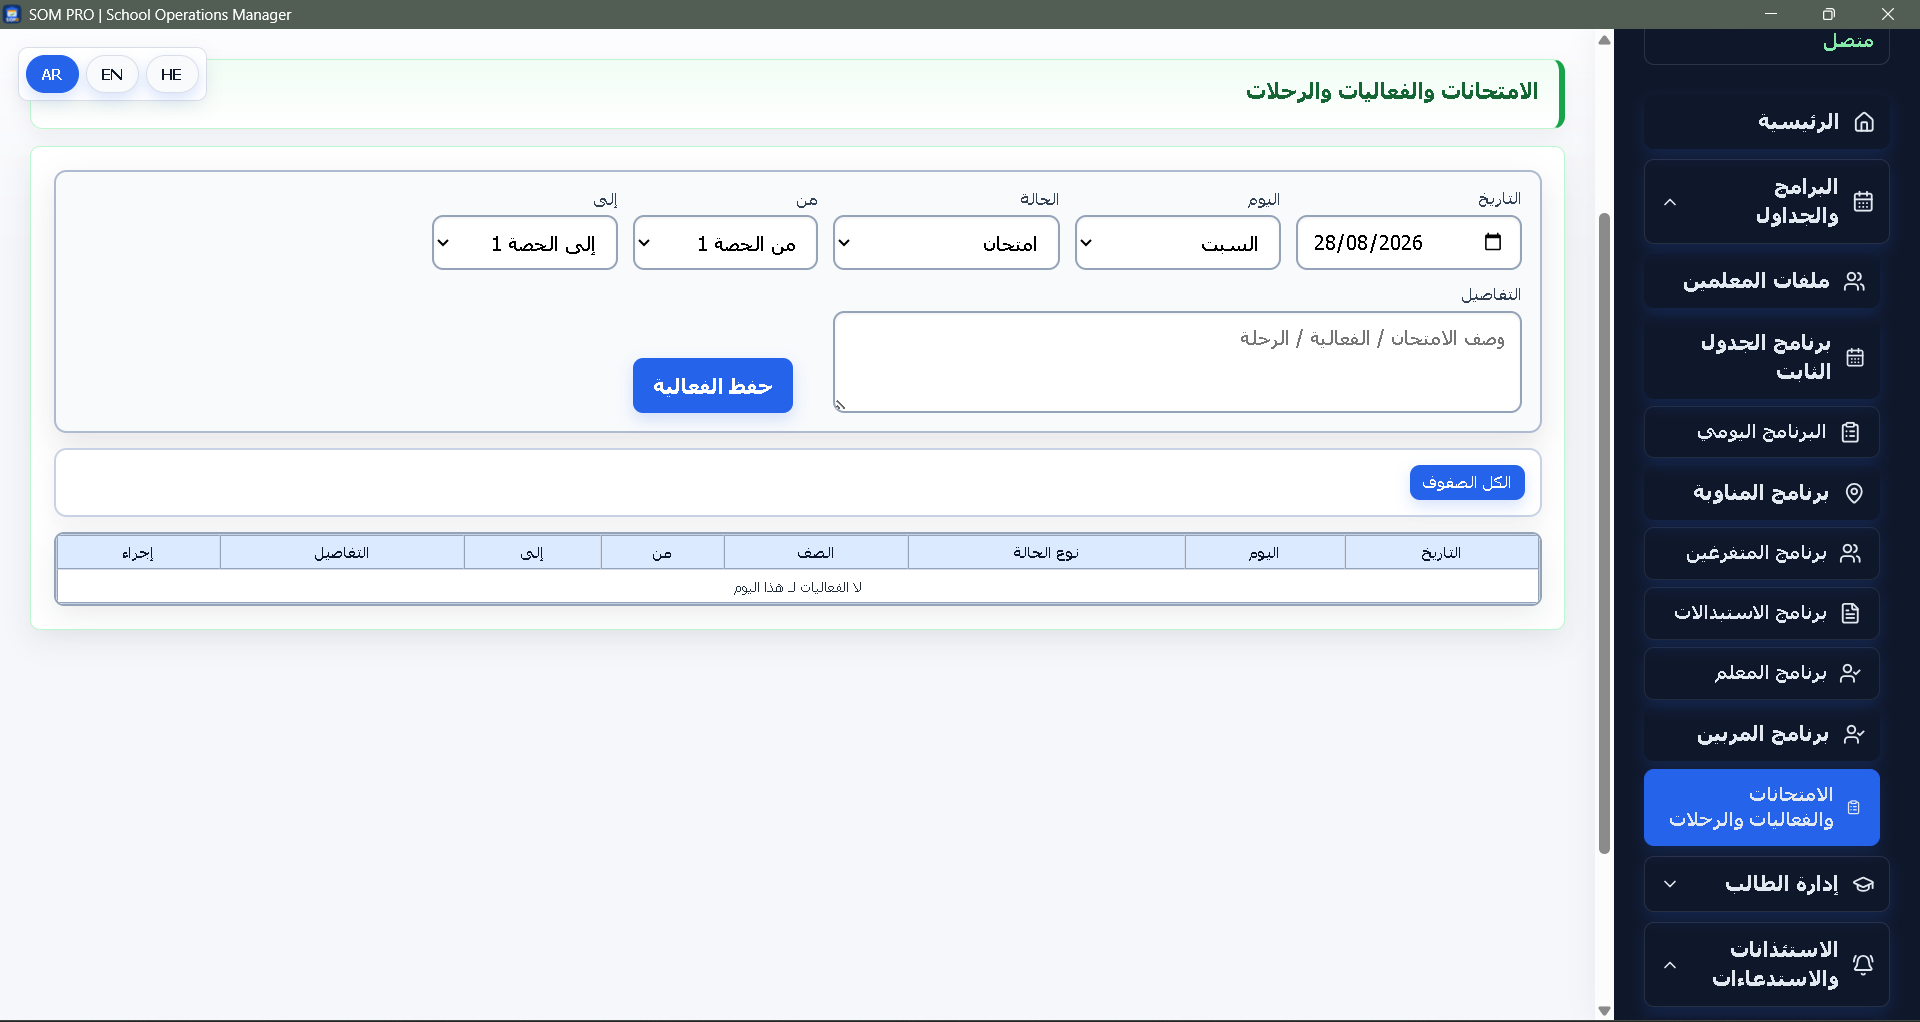
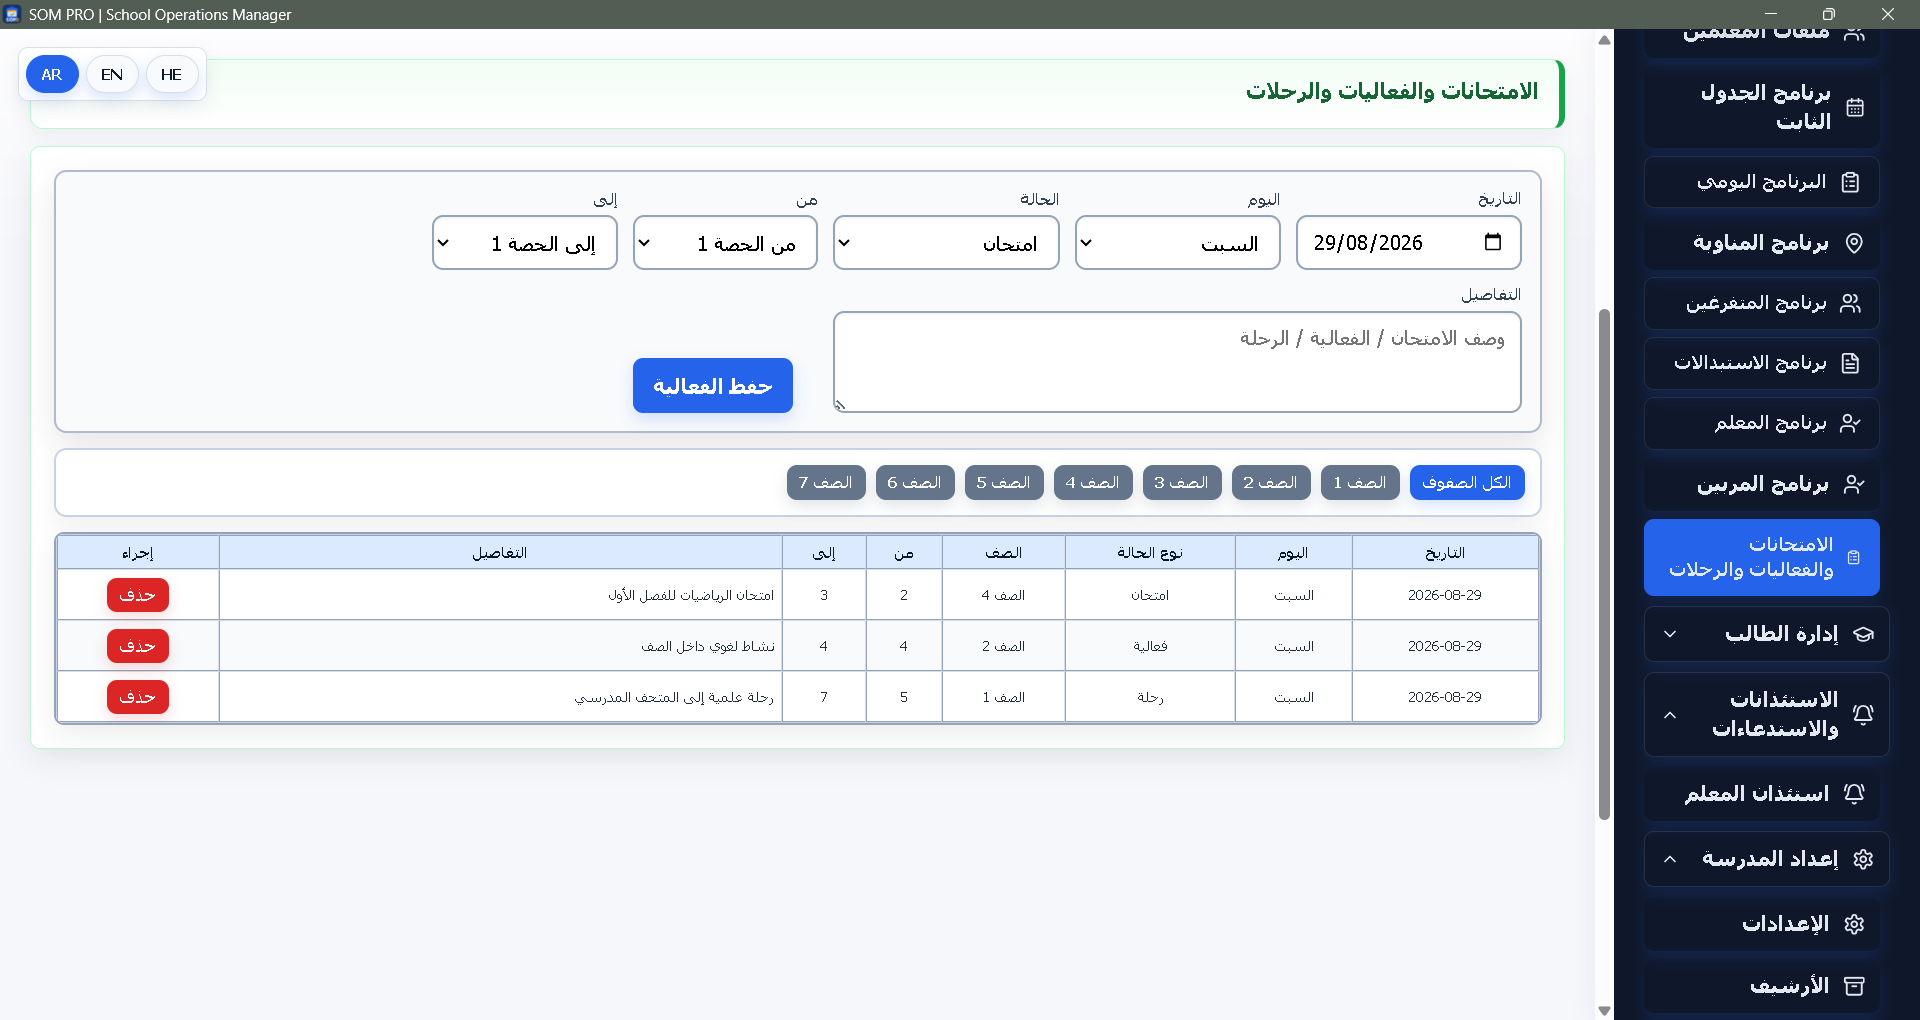
Refresh admin showcase images

diff --git a/web-page/index.html b/web-page/index.html
@@ -1398,11 +1398,10 @@
             <article class="showcase-group">
               <div class="showcase-group-head">
                 <div>
-                  <h3 data-i18n="showcaseAdminGroupTitle">صور الإدارة</h3>
-                  <p data-i18n="showcaseAdminGroupText">ثماني لقطات إدارية منفصلة، وكل صورة تفتح بالحجم الكامل عند الضغط عليها.</p>
+                  <h3 data-i18n="showcaseAdminGroupTitle">واجهة الادارة</h3>
                 </div>
               </div>
-              <div class="showcase-tiles admin-gallery" id="admin-gallery" aria-live="polite" data-showcase-label="صور الإدارة" data-showcase-source="assets/showcase/admin-gallery.json">
+              <div class="showcase-tiles admin-gallery" id="admin-gallery" aria-live="polite" data-showcase-label="واجهة الادارة" data-showcase-source="assets/showcase/admin-gallery.json">
                 <p class="showcase-loading">جارٍ تحميل صور الإدارة...</p>
               </div>
             </article>
@@ -1613,8 +1612,8 @@
           showcaseStudentGroupText: "أربع لقطات ببيانات تجريبية فقط توضّح ما يراه الطالب في يومه الدراسي.",
           showcaseTeacherGroupTitle: "واجهات المعلم",
           showcaseTeacherGroupText: "خمس لقطات ببيانات تجريبية فقط تمثل العمل اليومي للمعلم داخل المشروع.",
-          showcaseAdminGroupTitle: "صور الإدارة",
-          showcaseAdminGroupText: "ثماني لقطات إدارية منفصلة، وكل صورة تفتح بالحجم الكامل عند الضغط عليها.",
+          showcaseAdminGroupTitle: "واجهة الادارة",
+          showcaseAdminGroupText: "",
           pkg1Title: "نسخة سطح المكتب",
           pkg1Text: "مهيأة للأجهزة المكتبية واللابتوبات داخل المدرسة أو في بيئة داخلية مستقرة.",
           pkg2Title: "نسخة الويب",
@@ -1711,8 +1710,8 @@
           showcaseStudentGroupText: "Four demo-only screenshots that show what the student sees during the school day.",
           showcaseTeacherGroupTitle: "Teacher screens",
           showcaseTeacherGroupText: "Five demo-only screenshots that represent the teacher’s daily work inside the project.",
-          showcaseAdminGroupTitle: "Admin images",
-          showcaseAdminGroupText: "Eight separate admin screenshots, each opening in full size when clicked.",
+          showcaseAdminGroupTitle: "Admin interface",
+          showcaseAdminGroupText: "",
           pkg1Title: "Desktop edition",
           pkg1Text: "Built for desktop and laptop school devices in a stable internal environment.",
           pkg2Title: "Web edition",
@@ -1809,8 +1808,8 @@
           showcaseStudentGroupText: "ארבעה צילומי מסך עם נתוני דמו בלבד שמראים מה התלמיד רואה ביום הלימודים שלו.",
           showcaseTeacherGroupTitle: "מסכי מורה",
           showcaseTeacherGroupText: "חמישה צילומי מסך עם נתוני דמו בלבד שמייצגים את העבודה היומית של המורה במערכת.",
-          showcaseAdminGroupTitle: "תמונות ניהול",
-          showcaseAdminGroupText: "שמונה צילומי מסך נפרדים של המנהל, וכל תמונה נפתחת בגודל מלא בלחיצה.",
+          showcaseAdminGroupTitle: "ממשק הניהול",
+          showcaseAdminGroupText: "",
           pkg1Title: "גרסת Desktop",
           pkg1Text: "מותאמת למחשבי desktop ו-laptop של בית הספר בסביבה פנימית יציבה.",
           pkg2Title: "גרסת Web",
